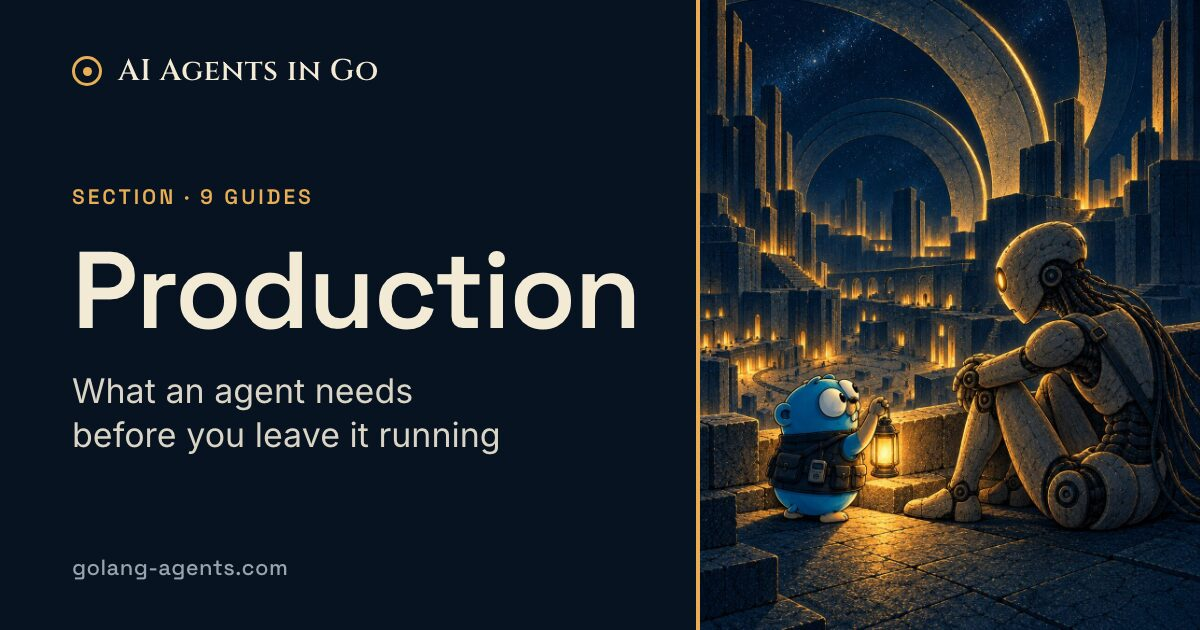
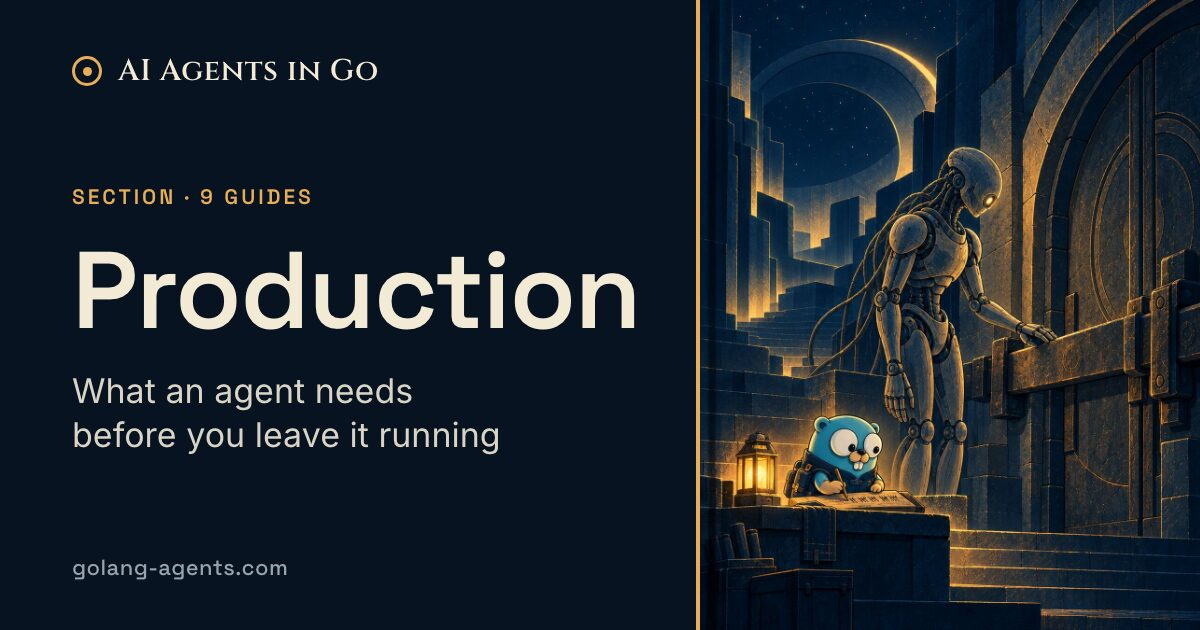
Art: use the Production section plate

Changed region(s): [[0.5858, 0.0, 1.0, 1.0]]

diff --git a/cmd/build/art.go b/cmd/build/art.go
@@ -44,33 +44,34 @@ func card(alt string) artwork {
 // mascot, who builds and runs the harness; and the Ghost, a tall stone
 // android, the model in the loop.
 var arts = map[string]artwork{
-	"intro":          plate("The Gopher and the Ghost, a tall stone android, lean over a map on a stone block at the foot of a monument; the Ghost points to the first stop on a lit route."),
-	"part1":          plate("The Gopher reaches up for the last curved piece of a toy train track that the kneeling Ghost, a stone android, holds out, to close a loop where four small cars wait, each carrying one tool."),
-	"part2":          plate("In a workshop under a lamp, the Gopher on a stool holds up a wrench, while the Ghost, a stone android, sits on the floor with a wrench from the pegboard, a finger to its head, studying a blank crash report pinned among the tools."),
-	"part3":          plate("High on a terrace under great stone rings, the Gopher holds up a lantern beside the seated Ghost, a stone android, with the monument's lit workshop windows falling away below."),
-	"ch01":           plate("The Gopher as a conductor in a cap, one hand on a tall lever, watches the Ghost, a stone android, ride a loop-the-loop in a car far too small for it, past four stations: a box, a cylinder, a cone, and an arch."),
-	"ch02":           plate("The Gopher talks into a tin can whose string arcs up to the Ghost, a stone android, small on a high terrace with the other can to its head, while a long blank receipt curls out of the Gopher's can across the floor."),
-	"ch03":           plate("The kneeling Ghost, a stone android, holds open a door in its chest while the Gopher, on a stepstool, looks in through a magnifying glass at a tiny conveyor of blank tiles running toward a tray where two dice tumble."),
-	"ch04":           plate("The Gopher holds up a small screwdriver to the kneeling Ghost, a stone android, whose long fingers reach to take its first tool, beside an open toolbox and a table clock opened to show its gears."),
-	"ch05":           plate("The Gopher bolts a guardrail onto a loop track beside a stone post with a red stop button and a bead lap counter, a piggy bank nearby, while the Ghost, a stone android, kneels and watches the empty ride car."),
-	"ch06":           plate("The Ghost, a stone android, types at a small iron teleprinter while a long blank paper strip streams out across the floor, and the Gopher walks beside it reading as it comes, scissors in hand."),
-	"ch07":           plate("On a stool beside a tall cabinet of tagged drawers, the Gopher ties a blank tag onto a drawer while the kneeling Ghost, a stone android, reaches toward it and waits."),
-	"ch08":           plate("In front of a tall shelf of scrolls, the Gopher, an armful of long scrolls in hand, slides one short tied scroll into a small backpack that the kneeling Ghost, a stone android, holds open."),
-	"ch09":           plate("Six copies of the Ghost, a stone android, work at desks in a row of stone alcoves, each on a folder marked with a different shape, while the Gopher holds up a stopwatch beside one shared jar of coins."),
-	"ch10":           plate("A solid stone wall separates two rooms; the Gopher slides an open toolbox into a window through the wall, and on the other side the Ghost, a stone android, reaches in and lifts out a wrench."),
-	"ch11":           plate("The Gopher fits an adapter on the plug at the end of the Ghost's gathered cables, toward one of three differently shaped sockets in a stone wall, while the Ghost, a stone android, kneels and holds the cables."),
-	"ch12":           plate("In a stone control room, the Gopher in a hard hat sits by a breaker switch watching a trace of amber bars on a large screen, while the Ghost, a stone android, works at a bench beside it, one of its cables frayed."),
-	"ch13":           plate("Five identical copies of the Ghost, a stone android, kneel on stone plinths with the same folder, their eyes slightly different in brightness, while the Gopher judges with a clipboard in front of a chalkboard of five overlapping error bars."),
-	"ch14":           plate("The Ghost, a stone android, kneels in a walled sandbox digging with a small shovel, ignoring a crash report with a folded note tucked into it outside the wall, while the Gopher rests a hand on a green approval button without pressing it."),
-	"ch15":           plate("The Gopher, lantern in hand, plants flags marked with a circle, a triangle, and a square on the landings of a long stair, holding a book stamped with the same shapes, while the Ghost, a stone android, climbs below with an armful of folders and an unplugged cord lies on the bottom step."),
-	"ch16":           plate("In a lantern-lit market arcade, the Gopher studies a boxed kit beside open trays of neatly packed parts, while the Ghost, a stone android, turns over a well-made wrench from one of the kits."),
-	"ch17":           plate("Under great stone rings, the Ghost, a stone android, sorts crash reports into folders marked with simple shapes along a long stone table, while the Gopher checks a small tray set aside, labeled Ask a human."),
-	"path-learning":  card("At the foot of a wide stone stair, the Gopher holds up a lantern and points up a row of small lanterns toward the great stone rings, while the Ghost, a stone android, kneels beside it."),
-	"path-shipping":  card("On a loading dock under a work lamp, the Gopher in an amber hard hat ticks a line on its clipboard while the Ghost, a stone android, sets a sealed crate onto a cart on iron rails."),
-	"path-leading":   card("Under a hanging lamp, the Gopher on a stool moves a token along a dotted route on a map of the monument, while the Ghost, a stone android, leans in and points to the same route."),
-	"section-build":  plate("On a wooden scaffold high on the monument, the kneeling Ghost, a stone android, holds a great curved stone segment of a ring steady while the Gopher, on the top plank, taps it into place with a mallet beside a hanging lantern."),
-	"section-basics": plate("At the foot of the monument's great stairs, the kneeling Ghost, a stone android, holds a lantern low while the Gopher, a clipboard under one arm, steps onto the first stair and looks up the long climb toward the lit rings."),
-	"path-complete":  card("On a terrace at the top of the stairs, the kneeling Ghost, a stone android, holds the Gopher on its open palm, the Gopher's clipboard fully ticked, beside a lantern, with lit towers and stairs far below."),
+	"intro":              plate("The Gopher and the Ghost, a tall stone android, lean over a map on a stone block at the foot of a monument; the Ghost points to the first stop on a lit route."),
+	"part1":              plate("The Gopher reaches up for the last curved piece of a toy train track that the kneeling Ghost, a stone android, holds out, to close a loop where four small cars wait, each carrying one tool."),
+	"part2":              plate("In a workshop under a lamp, the Gopher on a stool holds up a wrench, while the Ghost, a stone android, sits on the floor with a wrench from the pegboard, a finger to its head, studying a blank crash report pinned among the tools."),
+	"part3":              plate("High on a terrace under great stone rings, the Gopher holds up a lantern beside the seated Ghost, a stone android, with the monument's lit workshop windows falling away below."),
+	"ch01":               plate("The Gopher as a conductor in a cap, one hand on a tall lever, watches the Ghost, a stone android, ride a loop-the-loop in a car far too small for it, past four stations: a box, a cylinder, a cone, and an arch."),
+	"ch02":               plate("The Gopher talks into a tin can whose string arcs up to the Ghost, a stone android, small on a high terrace with the other can to its head, while a long blank receipt curls out of the Gopher's can across the floor."),
+	"ch03":               plate("The kneeling Ghost, a stone android, holds open a door in its chest while the Gopher, on a stepstool, looks in through a magnifying glass at a tiny conveyor of blank tiles running toward a tray where two dice tumble."),
+	"ch04":               plate("The Gopher holds up a small screwdriver to the kneeling Ghost, a stone android, whose long fingers reach to take its first tool, beside an open toolbox and a table clock opened to show its gears."),
+	"ch05":               plate("The Gopher bolts a guardrail onto a loop track beside a stone post with a red stop button and a bead lap counter, a piggy bank nearby, while the Ghost, a stone android, kneels and watches the empty ride car."),
+	"ch06":               plate("The Ghost, a stone android, types at a small iron teleprinter while a long blank paper strip streams out across the floor, and the Gopher walks beside it reading as it comes, scissors in hand."),
+	"ch07":               plate("On a stool beside a tall cabinet of tagged drawers, the Gopher ties a blank tag onto a drawer while the kneeling Ghost, a stone android, reaches toward it and waits."),
+	"ch08":               plate("In front of a tall shelf of scrolls, the Gopher, an armful of long scrolls in hand, slides one short tied scroll into a small backpack that the kneeling Ghost, a stone android, holds open."),
+	"ch09":               plate("Six copies of the Ghost, a stone android, work at desks in a row of stone alcoves, each on a folder marked with a different shape, while the Gopher holds up a stopwatch beside one shared jar of coins."),
+	"ch10":               plate("A solid stone wall separates two rooms; the Gopher slides an open toolbox into a window through the wall, and on the other side the Ghost, a stone android, reaches in and lifts out a wrench."),
+	"ch11":               plate("The Gopher fits an adapter on the plug at the end of the Ghost's gathered cables, toward one of three differently shaped sockets in a stone wall, while the Ghost, a stone android, kneels and holds the cables."),
+	"ch12":               plate("In a stone control room, the Gopher in a hard hat sits by a breaker switch watching a trace of amber bars on a large screen, while the Ghost, a stone android, works at a bench beside it, one of its cables frayed."),
+	"ch13":               plate("Five identical copies of the Ghost, a stone android, kneel on stone plinths with the same folder, their eyes slightly different in brightness, while the Gopher judges with a clipboard in front of a chalkboard of five overlapping error bars."),
+	"ch14":               plate("The Ghost, a stone android, kneels in a walled sandbox digging with a small shovel, ignoring a crash report with a folded note tucked into it outside the wall, while the Gopher rests a hand on a green approval button without pressing it."),
+	"ch15":               plate("The Gopher, lantern in hand, plants flags marked with a circle, a triangle, and a square on the landings of a long stair, holding a book stamped with the same shapes, while the Ghost, a stone android, climbs below with an armful of folders and an unplugged cord lies on the bottom step."),
+	"ch16":               plate("In a lantern-lit market arcade, the Gopher studies a boxed kit beside open trays of neatly packed parts, while the Ghost, a stone android, turns over a well-made wrench from one of the kits."),
+	"ch17":               plate("Under great stone rings, the Ghost, a stone android, sorts crash reports into folders marked with simple shapes along a long stone table, while the Gopher checks a small tray set aside, labeled Ask a human."),
+	"path-learning":      card("At the foot of a wide stone stair, the Gopher holds up a lantern and points up a row of small lanterns toward the great stone rings, while the Ghost, a stone android, kneels beside it."),
+	"path-shipping":      card("On a loading dock under a work lamp, the Gopher in an amber hard hat ticks a line on its clipboard while the Ghost, a stone android, sets a sealed crate onto a cart on iron rails."),
+	"path-leading":       card("Under a hanging lamp, the Gopher on a stool moves a token along a dotted route on a map of the monument, while the Ghost, a stone android, leans in and points to the same route."),
+	"section-production": plate("At night beside a great barred stone door, the Ghost, a stone android, stands guard with one hand on the heavy bar while the Gopher keeps a tally of plain marks at a stone desk by lantern light."),
+	"section-build":      plate("On a wooden scaffold high on the monument, the kneeling Ghost, a stone android, holds a great curved stone segment of a ring steady while the Gopher, on the top plank, taps it into place with a mallet beside a hanging lantern."),
+	"section-basics":     plate("At the foot of the monument's great stairs, the kneeling Ghost, a stone android, holds a lantern low while the Gopher, a clipboard under one arm, steps onto the first stair and looks up the long climb toward the lit rings."),
+	"path-complete":      card("On a terrace at the top of the stairs, the kneeling Ghost, a stone android, holds the Gopher on its open palm, the Gopher's clipboard fully ticked, beside a lantern, with lit towers and stairs far below."),
 	"gopher": {
 		Alt:    "The Gopher, the site's mascot, with its clipboard.",
 		Widths: badgeWidths, Ratio: [2]int{1, 1}, Ext: "png",

diff --git a/cmd/build/main.go b/cmd/build/main.go
@@ -88,7 +88,7 @@ type section struct {
 var sections = []section{
 	{"basics", "Basics", "", "section-basics", "section-basics"},
 	{"build", "Build", "", "section-build", "section-build"},
-	{"production", "Production", "", "part3", "section-production"},
+	{"production", "Production", "", "section-production", "section-production"},
 	{"ecosystem", "Go ecosystem", "Ecosystem", "ch11", "section-ecosystem"},
 	{"run", "Examples", "", "intro", "section-examples"},
 	{"findings", "Research", "", "ch13", "section-research"},
